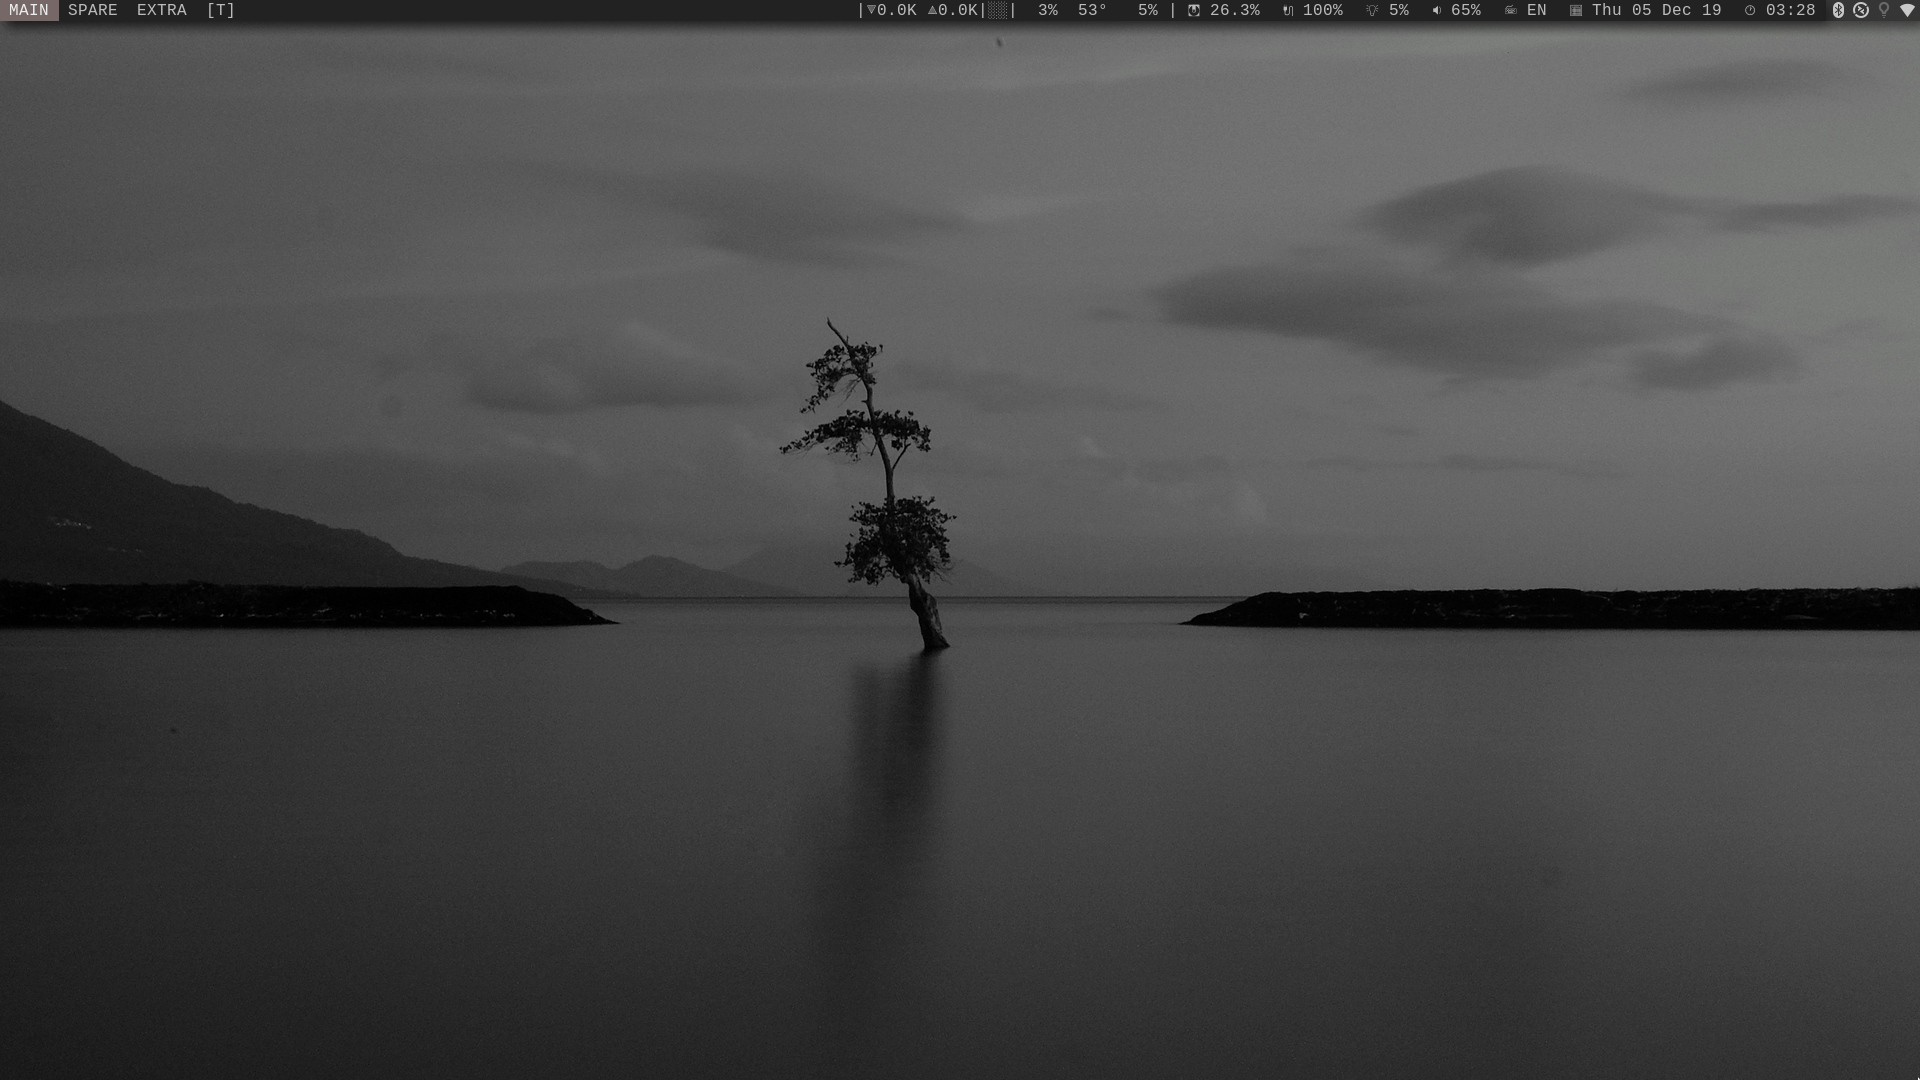
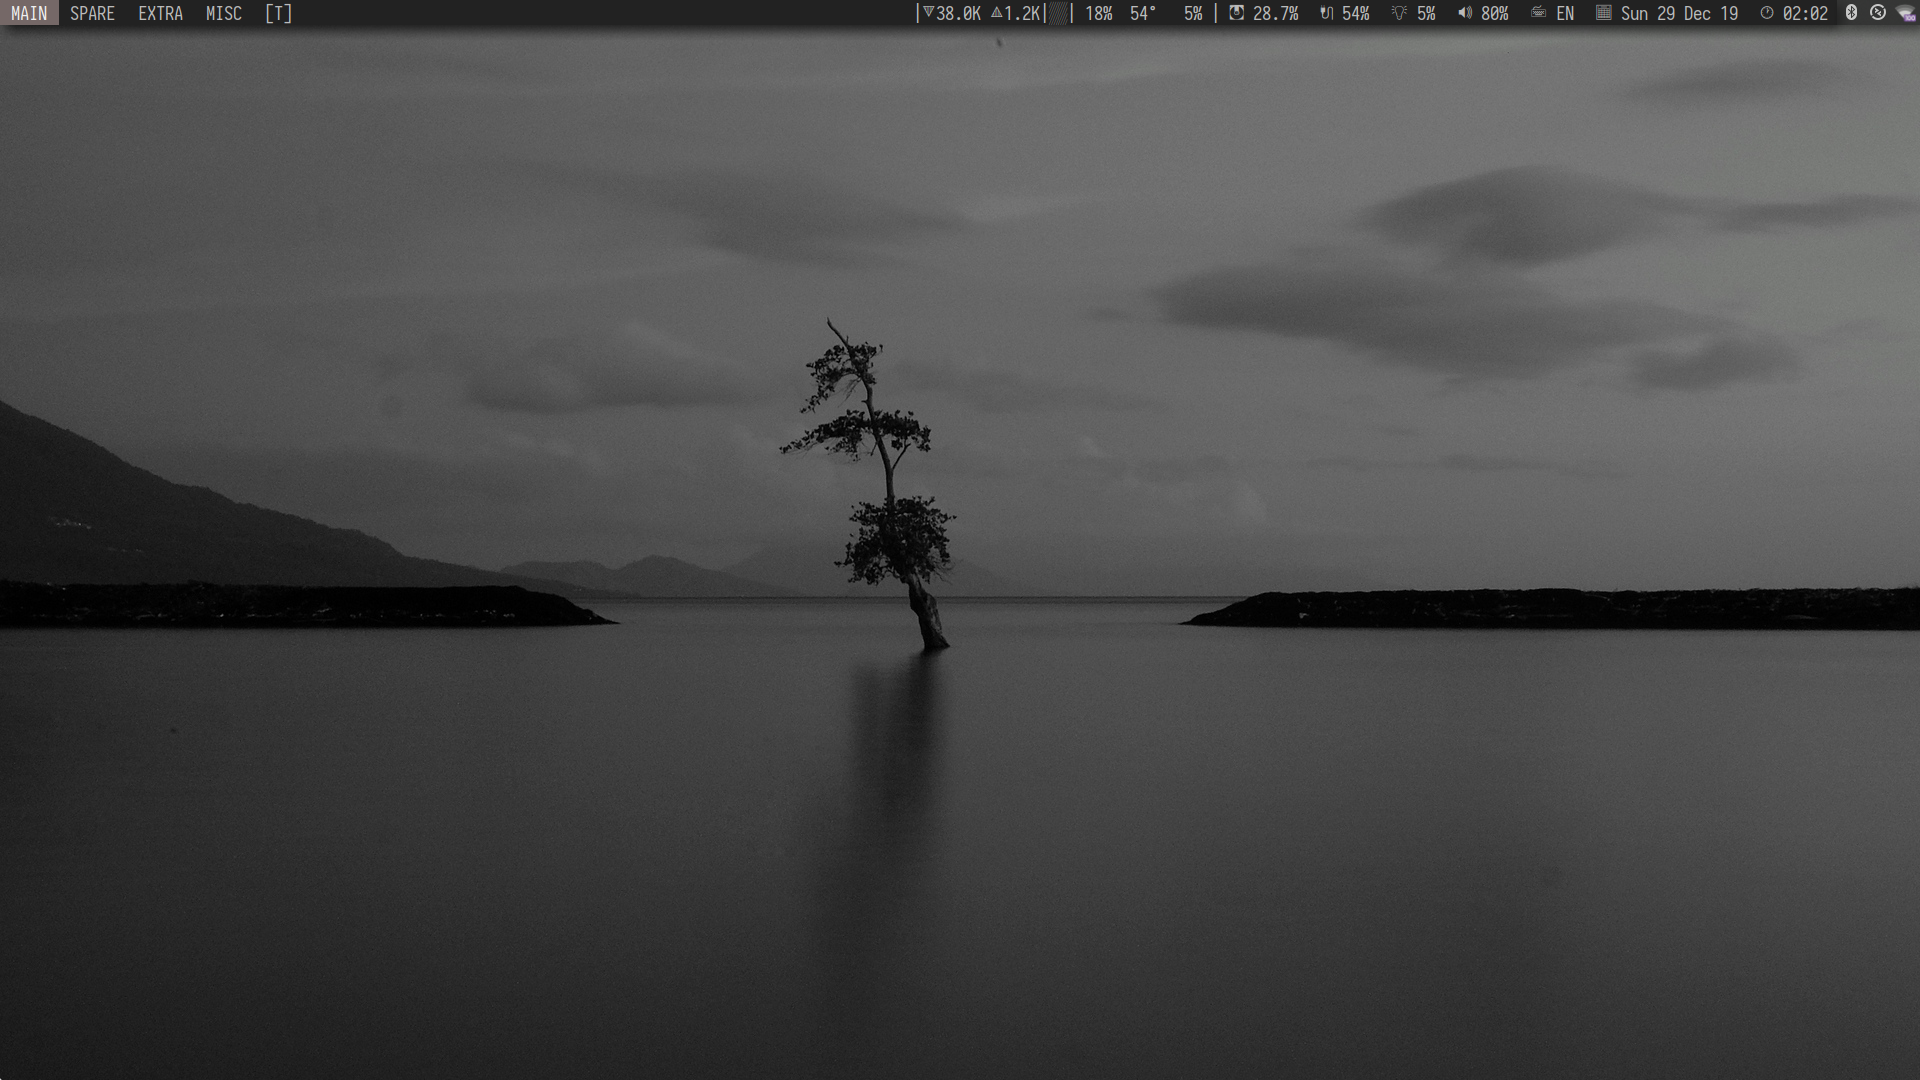
Edit README.md

Changed region(s): [[0.4688, 0.0, 1.0, 0.0306], [0.0, 0.0, 0.1562, 0.0306]]

diff --git a/README.md b/README.md
@@ -21,6 +21,7 @@ Alexander Bordachyov <bam85g@gmail.com>
 - **Screenlock**       :  slimlock
 - **GTK3 Theme**       :  shades-of-gray-theme
 - **Icon Theme**       :  papirus-icon-theme
+- **Main Font**        :  iosevka
 - **Compositor**       :  compton
 - **Terminal**         :  xterm
 - **Shell**            :  bash
@@ -42,10 +43,6 @@ See the source files [here](sources/)
 ![Image](img/screenshot2.png)
 
 ![Image](img/screenshot3.png)
-
-![Image](img/screenshot4.png)
-
-![Image](img/screenshot5.png)
 
 
 PART 1/2 Distro Installation Workflow
